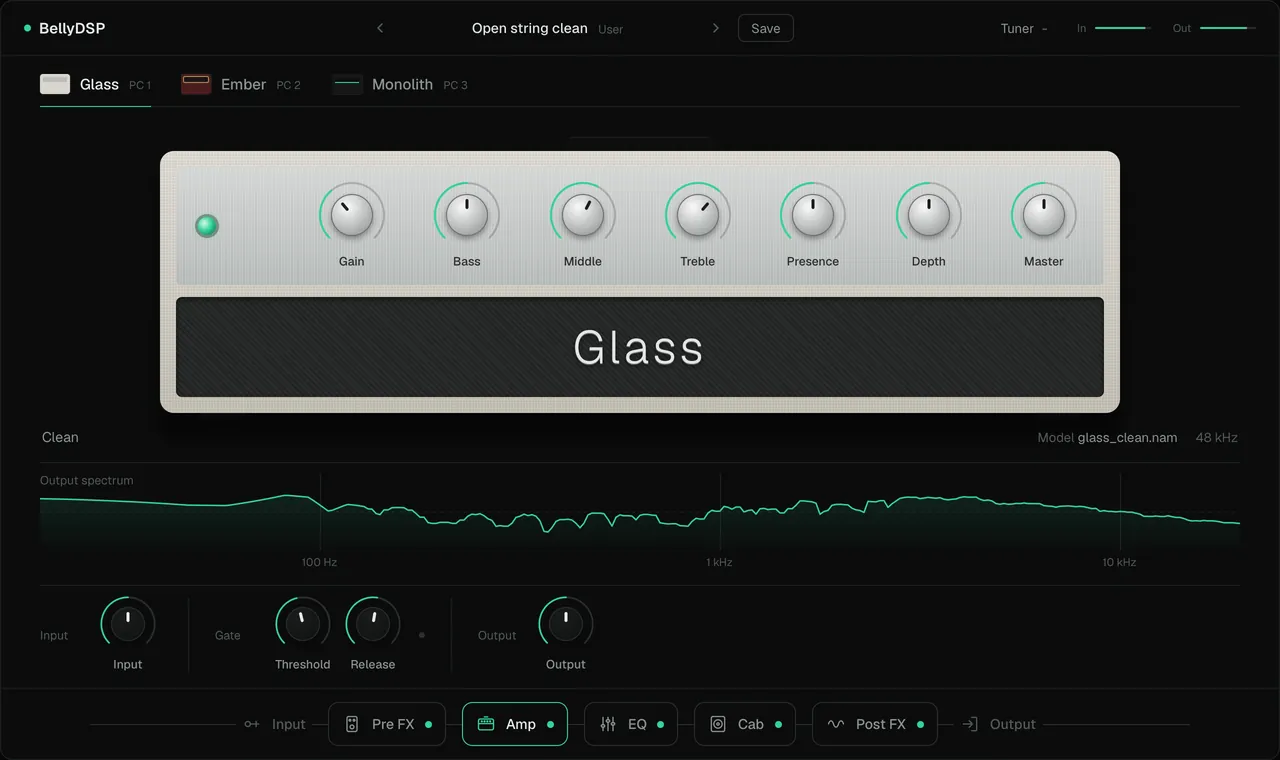
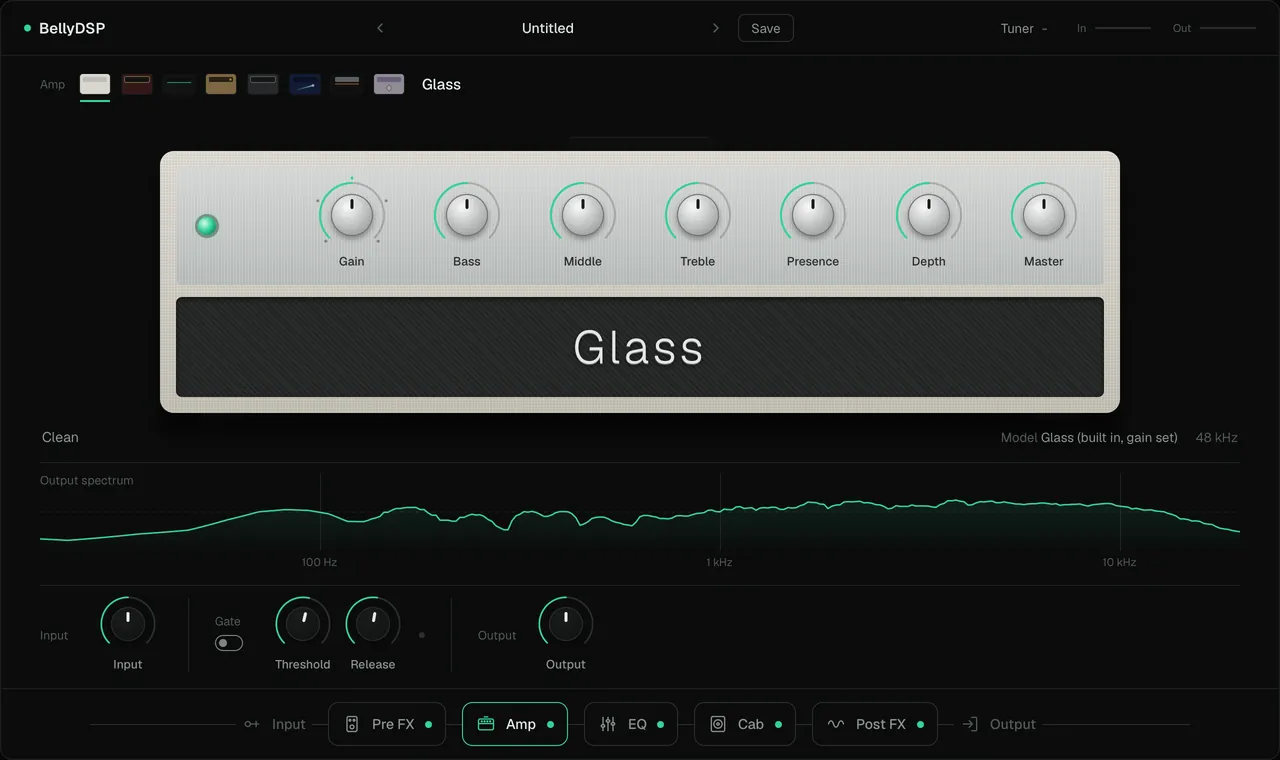
Website for 0.2.0: the Amp page with its shelf in the hero and the gallery (Lantern, Comet in place of Ember, Monolith), the amps card for eight amps one at a time, Match tone with its new parts, the CPU figures, "New in 0.2.0" in place of "Coming in the next version"

diff --git a/site/index.html b/site/index.html
@@ -47,7 +47,7 @@
              srcset="assets/img/amp-glass-1280.webp 1280w, assets/img/amp-glass-1920.webp 1920w"
              sizes="(min-width: 1184px) 1120px, calc(100vw - 32px)"
              width="1280" height="760" fetchpriority="high"
-             alt="The BellyDSP window on the Amp page: the Glass amp head with its seven knobs, the output spectrum below it, the input, gate, and output controls, and the signal chain along the bottom.">
+             alt="The BellyDSP window on the Amp page: the shelf of eight small amp heads along the top, the Glass amp head with its seven knobs, the output spectrum below it, the input, gate, and output controls, and the signal chain along the bottom.">
       </figure>
     </div>
 
@@ -66,9 +66,9 @@
       </div>
       <div class="grid two">
         <div class="card">
-          <h3>Three amp slots, always running</h3>
-          <p>Each slot plays a NAM capture (any amp-only <code>.nam</code> file) and stays running in the background, so switching between them is instant and click-free, from the panel or a MIDI footswitch (program change 1, 2, 3). Each slot is loudness-matched, calibrated to its capture's recorded input level, and has its own trims and tone controls.</p>
-          <p>Every slot comes with a built-in capture, clean, crunch, and high gain, so there's something to play the moment it opens. For now they're trained from BellyDSP's own amp model; captures of real amps will replace them.</p>
+          <h3>Eight amps, one at a time</h3>
+          <p>Glass, Ember, Monolith, Lantern, Basalt, Comet, Forge, and Quartz, from clean to a saturated lead, each with a head of its own. Pick one from the shelf of small heads at the top of the Amp page, or with a MIDI footswitch (program change 1 to 8). Each amp remembers its own knobs, and its Gain blends five captures across the knob, so it changes how hard the amp distorts, not just how loud it is.</p>
+          <p>Only the amp you hear runs; a switch fades the new one in about a tenth of a second later, without a click. The amps are NAM captures trained from BellyDSP's own amp models, not captures of real amps. Load your own <code>.nam</code> file as a ninth.</p>
         </div>
         <div class="card">
           <h3>A cab with mics you can move</h3>
@@ -107,12 +107,12 @@
         </div>
         <div class="card">
           <h3>Match tone</h3>
-          <p>Load a song, pick a section where the lead guitar stands out, and BellyDSP sets the amp, its Gain and tone, the cab, and an EQ to get close to that recording. It can pull the guitar out of a full mix first, and you can play the part along with the song (with a count-in) so it compares your notes with the recording's.</p>
+          <p>Load a song, pick a section where the lead guitar stands out, and BellyDSP sets the amp, its Gain and tone, a pedal and compressor if they help, the cab, and a fine correction curve to get close to that recording. It can pull the guitar out of a full mix first. Play the part along with the song (with a count-in) and it compares your notes with the recording's one by one, and can use them to clean the rest of the band out of the recording.</p>
           <p>Switch between the song, the match, and your current sound before you apply it. Applying is one undo step.</p>
         </div>
         <div class="card">
           <h3>A real-time audio engine</h3>
-          <p>Zero added latency. The one exception is opt-in: the flanger's through-zero setting delays the signal by 5 ms while it's switched on, and says so. The audio thread never allocates memory, frees it, or waits on a lock, and an automated test checks that for every feature. With every block on, it uses about a quarter of the time a 128-sample buffer allows on the developer's Apple silicon Mac.</p>
+          <p>Zero added latency. The one exception is opt-in: the flanger's through-zero setting delays the signal by 5 ms while it's switched on, and says so. The audio thread never allocates memory, frees it, or waits on a lock, and an automated test checks that for every feature. The default rig uses about 6% of the time a 128-sample buffer allows on the developer's Apple silicon Mac, and every block on at its heaviest about 22%. A CPU saver switch on the Output page helps older computers.</p>
           <p>It runs at 48 kHz, the rate NAM captures are trained at.</p>
         </div>
       </div>
@@ -120,17 +120,17 @@
 
     <section aria-labelledby="next">
       <div class="section-head">
-        <h2 id="next">Coming in the next version</h2>
-        <p class="dim">In development and on GitHub, but not in the download yet. When it ships, BellyDSP updates itself.</p>
+        <h2 id="next">New in 0.2.0</h2>
+        <p class="dim">Already installed? BellyDSP updates itself. The full list is on the download page.</p>
       </div>
       <div class="grid three">
         <div class="card">
           <h3>Eight amps, one at a time</h3>
-          <p>Five more built-in amps, Lantern, Basalt, Comet, Forge, and Quartz, join Glass, Ember, and Monolith, each with a head of its own. Pick one from a shelf of small heads; each remembers its own knobs. Only the amp you hear runs, so switching takes about a tenth of a second and the amp uses far less CPU.</p>
+          <p>Five more built-in amps, Lantern, Basalt, Comet, Forge, and Quartz, join Glass, Ember, and Monolith, each with a head of its own. Pick one from a shelf of small heads; each remembers its own knobs. Only the amp you hear runs, so the amp section uses far less CPU.</p>
         </div>
         <div class="card">
           <h3>A closer Match tone</h3>
-          <p>After you play along, it compares your notes with the recording's one by one, tries pedals and a compressor in front of the amp, and adds a fine correction curve after the cab. It can also clean the rest of the band out of the recording using your take. Measured on BellyDSP's own test set of hidden rigs, it gets closer than the current version.</p>
+          <p>After you play along, it compares your notes with the recording's one by one, tries pedals and a compressor in front of the amp, and adds a fine correction curve after the cab. It can also clean the rest of the band out of the recording using your take. Measured on BellyDSP's own test set of hidden rigs, it gets closer than 0.1.0 did.</p>
         </div>
         <div class="card">
           <h3>Lighter on slower computers</h3>
@@ -149,12 +149,12 @@
            switch. Use <audio controls preload="none"> with a caption saying what's playing. No embeds. -->
       <div class="gallery">
         <figure>
-          <a href="assets/img/amp-ember-1280.webp"><img src="assets/img/amp-ember-640.webp" srcset="assets/img/amp-ember-640.webp 640w, assets/img/amp-ember-1280.webp 1280w" sizes="(min-width: 720px) 50vw, 100vw" width="640" height="380" loading="lazy" decoding="async" alt="The Amp page with the Ember head selected: a red amp with a gold script badge and seven knobs."></a>
-          <figcaption>Ember, the crunch slot. Each slot has its own head.</figcaption>
+          <a href="assets/img/amp-lantern-1280.webp"><img src="assets/img/amp-lantern-640.webp" srcset="assets/img/amp-lantern-640.webp 640w, assets/img/amp-lantern-1280.webp 1280w" sizes="(min-width: 720px) 50vw, 100vw" width="640" height="380" loading="lazy" decoding="async" alt="The Amp page with Lantern selected on the shelf: a tweed amp with a brown panel, cream knobs, and a cream script badge on an oxblood grille."></a>
+          <figcaption>Lantern, power-amp breakup. Every amp has its own head.</figcaption>
         </figure>
         <figure>
-          <a href="assets/img/amp-monolith-1280.webp"><img src="assets/img/amp-monolith-640.webp" srcset="assets/img/amp-monolith-640.webp 640w, assets/img/amp-monolith-1280.webp 1280w" sizes="(min-width: 720px) 50vw, 100vw" width="640" height="380" loading="lazy" decoding="async" alt="The Amp page with the Monolith head selected: a black amp with a grille and an emerald-lit badge."></a>
-          <figcaption>Monolith, the high-gain slot, with the live output spectrum.</figcaption>
+          <a href="assets/img/amp-comet-1280.webp"><img src="assets/img/amp-comet-640.webp" srcset="assets/img/amp-comet-640.webp 640w, assets/img/amp-comet-1280.webp 1280w" sizes="(min-width: 720px) 50vw, 100vw" width="640" height="380" loading="lazy" decoding="async" alt="The Amp page with Comet selected on the shelf: a navy amp with blue knobs and a slanted ice-white badge with streaks behind it."></a>
+          <figcaption>Comet, a lead with the mids forward, with the live output spectrum.</figcaption>
         </figure>
         <figure>
           <a href="assets/img/cab-1280.webp"><img src="assets/img/cab-640.webp" srcset="assets/img/cab-640.webp 640w, assets/img/cab-1280.webp 1280w" sizes="(min-width: 720px) 50vw, 100vw" width="640" height="380" loading="lazy" decoding="async" alt="The Cab page: the built-in cab list on the left, a speaker with mic markers in the middle, and the controls for mics A and B on the right."></a>
@@ -196,7 +196,7 @@
         </div>
         <div>
           <h2>Bring your own tones</h2>
-          <p class="dim">The amps are NAM captures: load any amp-only <code>.nam</code> file into a slot, or make your own with NAM's open trainer. The cab takes any impulse response as a <code>.wav</code> file. Presets remember which files they use and find them again if you move them.</p>
+          <p class="dim">The amps are NAM captures: load any amp-only <code>.nam</code> file as your own amp, or make your own with NAM's open trainer. The cab takes any impulse response as a <code>.wav</code> file. Presets remember which files they use and find them again if you move them.</p>
           <p class="dim">The built-in IRs are public domain (CC0). The built-in captures are Sean's, under CC BY 4.0.</p>
         </div>
       </div>

diff --git a/tools/site/make_site_assets.py b/tools/site/make_site_assets.py
@@ -32,9 +32,10 @@ REPO_ROOT = Path(__file__).resolve().parent.parent.parent
 
 # site name: (proof snapshot, widths). The first is the overview's hero.
 SHOTS = {
-    "amp-glass": ("editor_amp_glass.png", (1280, 1920)),
-    "amp-ember": ("editor_amp_ember.png", (640, 1280)),
-    "amp-monolith": ("editor_amp_monolith.png", (640, 1280)),
+    # The Amp page with its shelf of eight amps (0.2.0; the Built-in captures tests write them to amp_shelf/).
+    "amp-glass": ("amp_shelf/editor_amp_glass.png", (1280, 1920)),
+    "amp-lantern": ("amp_shelf/editor_amp_lantern.png", (640, 1280)),
+    "amp-comet": ("amp_shelf/editor_amp_comet.png", (640, 1280)),
     "cab": ("editor_cab_builtin.png", (640, 1280)),
     "harmonizer": ("editor_harmonizer.png", (640, 1280)),
     "bloom": ("editor_bloom.png", (640, 1280)),
